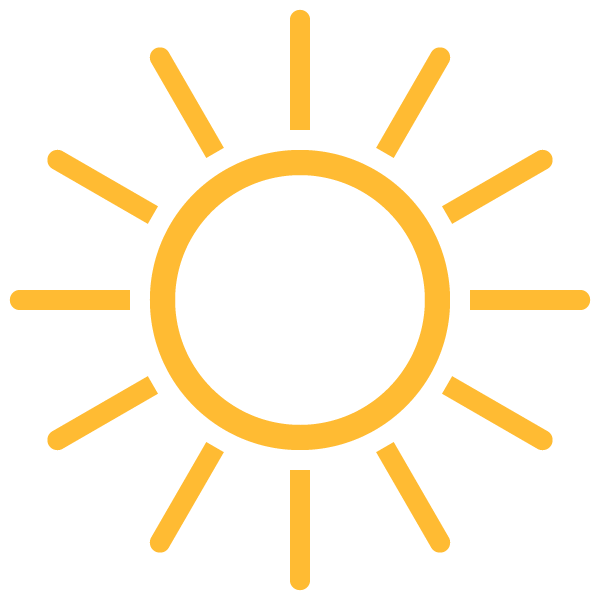
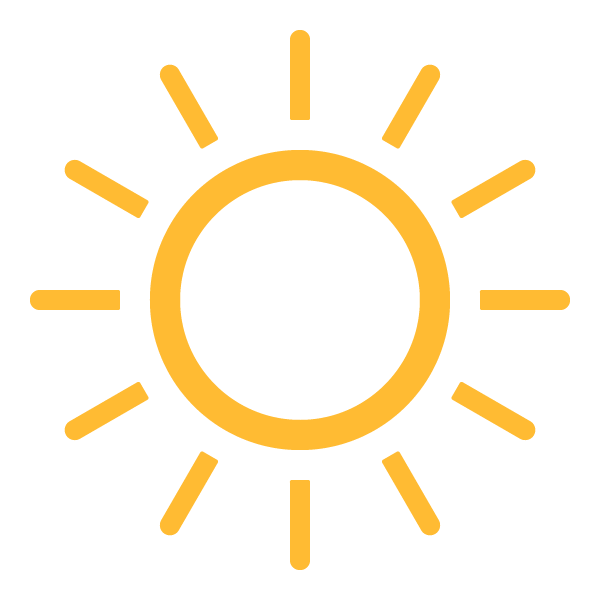
Добавлены иконки, совместимость с кодами openweather api

diff --git a/Weather Sector/WeatherCodes.m b/Weather Sector/WeatherCodes.m
@@ -1,0 +1,86 @@
+//
+//  WeatherCodes.m
+//  Weather Sector
+//
+//  Created by Oleksii Osynovskyi on 6/15/15.
+//  Copyright (c) 2015 Oleksii Osynovskyi. All rights reserved.
+//
+
+#import "WeatherCodes.h"
+
+@implementation WeatherCodes
+
++ (NSDictionary *)codes {
+    static NSDictionary *codes = nil;
+    static dispatch_once_t onceToken;
+    
+    dispatch_once(&onceToken, ^{
+        codes = @{
+                  @"200": @"thunderstorm-light-rain",
+                  @"201": @"thunderstorm-rain",
+                  @"202": @"thunderstorm-heavy-rain",
+                  @"210": @"light-thunderstorm",
+                  @"211": @"thunderstorm",
+                  @"212": @"heavy-thunderstorm",
+                  @"221": @"heavy-thunderstorm", //ragged thunderstorm
+                  @"230": @"thunderstorm-light-drizzle",
+                  @"231": @"thunderstorm-drizzle",
+                  @"232": @"thunderstorm-heavy-drizzle",
+                  @"300": @"light-drizzle",
+                  @"301": @"drizzle",
+                  @"302": @"heavy-drizzle",
+                  @"310": @"light-drizzle-rain",
+                  @"311": @"drizzle-rain",
+                  @"312": @"heavy-drizzle-rain",
+                  @"313": @"shower-drizzle", //shower rain and drizzle
+                  @"314": @"shower-drizzle", //heavy shower rain and drizzle
+                  @"321": @"shower-drizzle",
+                  @"500": @"light-rain",
+                  @"501": @"rain",
+                  @"502": @"heavy-rain",
+                  @"503": @"heavy-rain", //very heavy rain
+                  @"504": @"heavy-rain", //extreme rain
+                  @"511": @"freezing-rain",
+                  @"520": @"shower-rain", //light intensity shower rain
+                  @"521": @"shower-rain",
+                  @"522": @"shower-rain", //heavy intensity shower rain
+                  @"531": @"shower-rain", //ragged shower rain
+                  @"600": @"light-snow",
+                  @"601": @"snow",
+                  @"602": @"heavy-snow",
+                  @"611": @"snow", //sleet
+                  @"612": @"heavy-snow", //shower sleet
+                  @"615": @"light-rain-snow",
+                  @"616": @"rain-snow",
+                  @"620": @"snow", //light shower snow
+                  @"621": @"snow", //shower snow
+                  @"622": @"heavy-snow", //heavy shower snow
+                  @"701": @"mist",
+                  @"711": @"smoke",
+                  @"721": @"mist", //haze
+                  @"731": @"smoke", //sand dsut whirls
+                  @"741": @"fog",
+                  @"751": @"smoke", //sand
+                  @"761": @"fog", //dust
+                  @"762": @"fog", //volcanic ash
+                  @"772": @"fog", //squalls
+                  @"781": @"tornado",
+                  @"800": @"clear-sky",
+                  @"801": @"few-clouds",
+                  @"802": @"scattered-clouds",
+                  @"803": @"broken-clouds",
+                  @"804": @"broken-clouds", //overcast clouds
+                  @"900": @"tornado",
+                  @"901": @"tornado", //tropical strom
+                  @"902": @"tornado", //hurricane
+                  @"903": @"heavy-snow", //cold
+                  @"904": @"clear-sky", //hot
+                  @"905": @"smoke", //windy
+                  @"906": @"freezing-rain" //hail
+                  };
+    });
+    
+    return codes;
+}
+
+@end

diff --git a/Weather Sector/WeatherSectorPlugIn.m b/Weather Sector/WeatherSectorPlugIn.m
@@ -10,6 +10,7 @@
 #import <OpenGL/CGLMacro.h>
 
 #import "WeatherSectorPlugIn.h"
+#import "WeatherCodes.h"
 
 #import "JKInterpolationMath.h"
 
@@ -172,7 +173,7 @@
     
     //Draw Icon
     
-    NSString *pathToIcon = [[NSBundle bundleForClass:[self class]] pathForResource:self.icon ofType:@"png"];
+    NSString *pathToIcon = [[NSBundle bundleForClass:[self class]] pathForResource: [[WeatherCodes codes] objectForKey:self.icon] ofType:@"png"];
     
     CGDataProviderRef dataProvider = CGDataProviderCreateWithFilename([pathToIcon cStringUsingEncoding:NSMacOSRomanStringEncoding]);
     
@@ -216,7 +217,7 @@
     
     CGContextSetShouldAntialias(context, YES);
     CGContextSetInterpolationQuality(context, kCGInterpolationHigh);
-    CGContextDrawImage(context, CGRectMake(25, 40, 50, 50), icon);
+    CGContextDrawImage(context, CGRectMake(21, 36, 58, 58), icon);
     
     CGImageRelease(icon);
     

diff --git a/Weather Sector/WeatherCodes.h b/Weather Sector/WeatherCodes.h
@@ -1,0 +1,15 @@
+//
+//  WeatherCodes.h
+//  Weather Sector
+//
+//  Created by Oleksii Osynovskyi on 6/15/15.
+//  Copyright (c) 2015 Oleksii Osynovskyi. All rights reserved.
+//
+
+#import <Foundation/Foundation.h>
+
+@interface WeatherCodes : NSObject
+
++(NSDictionary*) codes;
+
+@end
